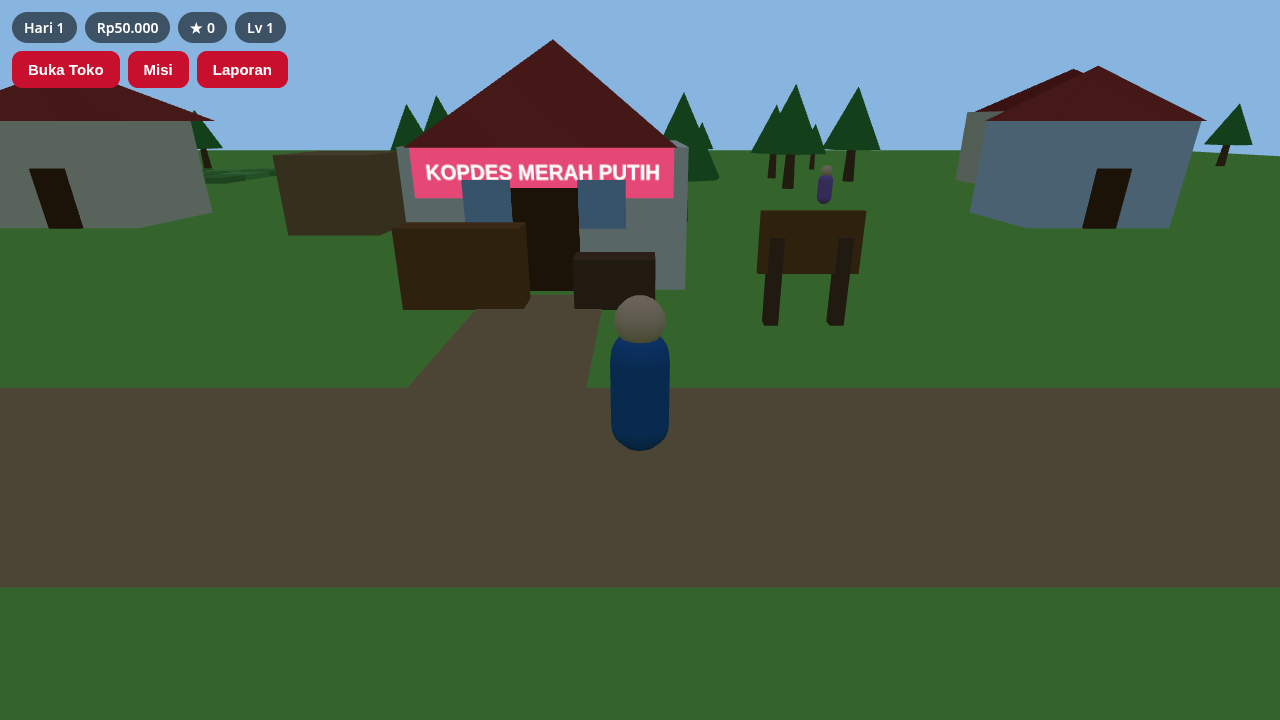
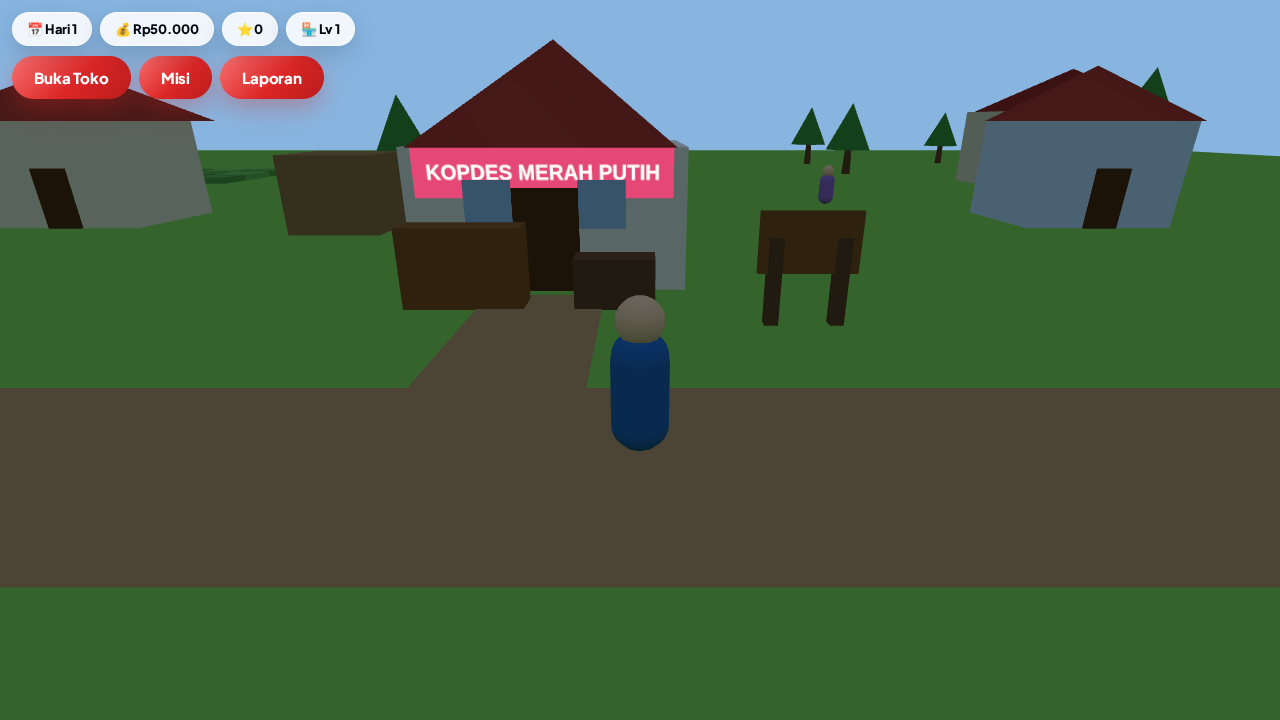
style: modernisasi UX/UI ikut token DESIGN.md (font Jakarta, kaca, pill)
- Font Plus Jakarta Sans dibundel lokal (variable woff2, tetap offline)
- HUD jadi pill kaca (blur) + tombol pill gradien merah + ikon emoji
- Dialog: kartu putih radius 26px, backdrop blur, animasi masuk
- Misi jadi kartu fitur: tile ikon, badge Selesai/Diterima, tombol Ambil pill
- Tombol Tutup jadi sekunder outline; toast & joystick dimodernisasi
- Primer merah mengikuti brand Kopdes (struktur token ikut DESIGN.md)

diff --git a/css/style.css b/css/style.css
@@ -1,55 +1,141 @@
+/* KopdesMerah — design system modern.
+ * Bahasa desain: iOS-like, extra-rounded, shadow lembut bernuansa merah
+ * (diadaptasi dari token DESIGN.md; primer merah mengikuti brand Kopdes). */
+
+@font-face {
+  font-family: 'Plus Jakarta Sans';
+  font-style: normal;
+  font-weight: 200 800;
+  font-display: swap;
+  src: url('./fonts/plus-jakarta-sans-var.woff2') format('woff2');
+}
+
+:root {
+  --font: 'Plus Jakarta Sans', system-ui, -apple-system, 'Segoe UI', sans-serif;
+  --primer: #dc2626;
+  --primer-tua: #b91c1c;
+  --primer-grad: linear-gradient(135deg, #f87171 0%, #dc2626 55%, #b91c1c 100%);
+  --ink: #030712;
+  --body: #475569;
+  --muted: #64748b;
+  --border: #f3d9d9;
+  --kaca: rgba(255, 255, 255, .88);
+  --r-pill: 999px;
+  --r-kartu: 26px;
+  --r-cta: 22px;
+  --shadow-cta: 0 10px 24px rgba(220, 38, 38, .30);
+  --shadow-kartu: 0 18px 44px rgba(220, 38, 38, .14);
+  --shadow-hud: 0 8px 24px rgba(3, 7, 18, .16);
+}
+
 * { margin: 0; padding: 0; box-sizing: border-box; }
 html, body { width: 100%; height: 100%; overflow: hidden; background: #87b5e0;
-  font-family: system-ui, -apple-system, "Segoe UI", sans-serif; }
+  font-family: var(--font); -webkit-tap-highlight-color: transparent; }
 #app, #app canvas { position: fixed; inset: 0; width: 100%; height: 100%; display: block; }
+button { font-family: var(--font); }
 
-/* HUD: bar status + tombol aksi */
-#hud { position: fixed; top: 12px; left: 12px; right: 12px; z-index: 10;
-  pointer-events: none; display: flex; flex-direction: column; gap: 8px;
-  align-items: flex-start; }
+/* HUD: bar status kaca + tombol aksi */
+#hud { position: fixed; top: max(12px, env(safe-area-inset-top)); left: 12px; right: 12px;
+  z-index: 10; pointer-events: none; display: flex; flex-direction: column;
+  gap: 10px; align-items: flex-start; }
 .hud-bar { display: flex; gap: 8px; flex-wrap: wrap; }
-.hud-bar span { background: rgba(0,0,0,.55); color: #fff; padding: 6px 12px;
-  border-radius: 999px; font-size: 14px; font-weight: 600; }
-.hud-tombol { display: flex; gap: 8px; pointer-events: auto; }
-.hud-tombol button, .panel button { background: #c8102e; color: #fff; border: 0;
-  border-radius: 10px; padding: 10px 16px; font-size: 15px; font-weight: 700;
-  cursor: pointer; }
-.hud-tombol button:active, .panel button:active { transform: scale(.96); }
+.hud-bar span { background: var(--kaca); -webkit-backdrop-filter: blur(12px);
+  backdrop-filter: blur(12px); color: var(--ink); padding: 8px 14px;
+  border-radius: var(--r-pill); font-size: 13px; font-weight: 800;
+  border: 1px solid rgba(255, 255, 255, .65); box-shadow: var(--shadow-hud);
+  letter-spacing: -.01em; white-space: nowrap; }
+.hud-tombol { display: flex; gap: 8px; pointer-events: auto; flex-wrap: wrap; }
+.hud-tombol button, .panel button {
+  background: var(--primer-grad); color: #fff; border: 0;
+  border-radius: var(--r-pill); padding: 12px 22px; font-size: 15px; font-weight: 800;
+  letter-spacing: -.01em; cursor: pointer; box-shadow: var(--shadow-cta);
+  transition: transform .12s ease, box-shadow .12s ease, filter .12s ease; }
+.hud-tombol button:hover, .panel button:hover { filter: brightness(1.06); }
+.hud-tombol button:active, .panel button:active { transform: scale(.95);
+  box-shadow: 0 4px 12px rgba(220, 38, 38, .25); }
 
-/* Kontrol sentuh HP: hanya tampil di layar sentuh */
+/* Kontrol sentuh HP */
 #sentuh { display: none; }
 @media (pointer: coarse) {
   #sentuh { display: block; position: fixed; inset: auto 0 0 0; z-index: 10;
     pointer-events: none; }
-  #joystick { position: absolute; left: 20px; bottom: 24px; width: 120px; height: 120px;
-    border-radius: 50%; background: rgba(0,0,0,.25); pointer-events: auto;
+  #joystick { position: absolute; left: 20px; bottom: calc(24px + env(safe-area-inset-bottom));
+    width: 128px; height: 128px; border-radius: 50%;
+    background: rgba(255, 255, 255, .22); -webkit-backdrop-filter: blur(8px);
+    backdrop-filter: blur(8px); border: 1.5px solid rgba(255, 255, 255, .45);
+    box-shadow: var(--shadow-hud); pointer-events: auto;
     display: flex; align-items: center; justify-content: center; }
-  #stick { width: 52px; height: 52px; border-radius: 50%;
-    background: rgba(255,255,255,.75); }
-  #btn-aksi { position: absolute; right: 24px; bottom: 44px; width: 84px; height: 84px;
-    border-radius: 50%; border: 0; background: #c8102e; color: #fff;
-    font-size: 16px; font-weight: 800; pointer-events: auto; }
+  #stick { width: 56px; height: 56px; border-radius: 50%;
+    background: rgba(255, 255, 255, .92); box-shadow: 0 6px 16px rgba(3, 7, 18, .25); }
+  #btn-aksi { position: absolute; right: 24px;
+    bottom: calc(44px + env(safe-area-inset-bottom));
+    width: 88px; height: 88px; border-radius: 50%; border: 0;
+    background: var(--primer-grad); color: #fff; font-size: 16px; font-weight: 800;
+    letter-spacing: .02em; pointer-events: auto; cursor: pointer;
+    box-shadow: var(--shadow-cta); transition: transform .12s ease; }
+  #btn-aksi:active { transform: scale(.9); }
 }
 
 /* Overlay: dialog misi & laporan harian */
-#overlay { position: fixed; inset: 0; z-index: 20; background: rgba(0,0,0,.5);
+#overlay { position: fixed; inset: 0; z-index: 20; background: rgba(3, 7, 18, .45);
+  -webkit-backdrop-filter: blur(6px); backdrop-filter: blur(6px);
   display: flex; align-items: center; justify-content: center; padding: 16px; }
 #overlay[hidden] { display: none; }
-.panel { background: #fffdf5; border-radius: 14px; padding: 20px; width: 100%;
-  max-width: 420px; max-height: 80vh; overflow-y: auto; }
-.panel h2 { margin-bottom: 12px; font-size: 20px; }
-.panel .misi { display: flex; justify-content: space-between; align-items: center;
-  gap: 10px; padding: 10px 0; border-bottom: 1px solid #e5dcc3; }
-.panel .misi em { color: #2e7d32; font-style: normal; font-weight: 700; }
-.panel dl > div { display: flex; justify-content: space-between; padding: 6px 0;
-  border-bottom: 1px solid #eee; }
-.panel dl dt { color: #555; }
-.panel dl dd { font-weight: 700; }
-.panel > button { margin-top: 14px; width: 100%; }
+.panel { background: #fff; border-radius: var(--r-kartu); padding: 24px; width: 100%;
+  max-width: 440px; max-height: 82vh; overflow-y: auto;
+  border: 1px solid var(--border); box-shadow: var(--shadow-kartu);
+  animation: panel-masuk .22s ease; }
+@keyframes panel-masuk {
+  from { opacity: 0; transform: translateY(14px) scale(.97); }
+  to { opacity: 1; transform: translateY(0) scale(1); } }
+.panel h2 { margin-bottom: 16px; font-size: 20px; font-weight: 800; color: var(--ink);
+  letter-spacing: -.02em; }
+
+/* Kartu misi: tile ikon + teks + aksi */
+.panel .misi { display: flex; align-items: center; gap: 12px; padding: 12px;
+  border: 1px solid #f1e3e3; border-radius: 18px; margin-bottom: 10px;
+  background: #fff; transition: transform .12s ease, box-shadow .12s ease; }
+.panel .misi:hover { transform: translateY(-2px);
+  box-shadow: 0 10px 22px rgba(220, 38, 38, .10); }
+.misi-ikon { flex: 0 0 48px; width: 48px; height: 48px; border-radius: 14px;
+  background: #fee2e2; display: flex; align-items: center; justify-content: center;
+  font-size: 24px; }
+.misi-teks { flex: 1; min-width: 0; }
+.misi-teks strong { display: block; font-size: 15px; font-weight: 800; color: var(--ink);
+  letter-spacing: -.01em; }
+.misi-teks small { font-size: 13px; color: var(--body); font-weight: 600; }
+.panel .misi [data-ambil] { padding: 10px 18px; font-size: 14px; flex-shrink: 0; }
+.lencana { font-size: 12px; font-weight: 800; padding: 8px 14px; border-radius: var(--r-pill);
+  white-space: nowrap; }
+.lencana-hijau { background: #ecfdf5; color: #047857; border: 1px solid #a7f3d0; }
+.lencana-kuning { background: #fef3c7; color: #b45309; border: 1px solid #fde68a; }
+
+/* Laporan harian */
+.panel dl > div { display: flex; justify-content: space-between; align-items: center;
+  padding: 10px 2px; border-bottom: 1px solid #f3e4e4; }
+.panel dl > div:last-child { border-bottom: 0; }
+.panel dl dt { color: var(--body); font-size: 14px; font-weight: 600; }
+.panel dl dd { font-weight: 800; color: var(--ink); font-size: 15px; }
+
+/* Tombol Tutup: sekunder outline */
+.panel > button[data-tutup] { margin-top: 16px; width: 100%;
+  background: rgba(255, 255, 255, .9); color: var(--primer-tua);
+  border: 1.5px solid var(--border); box-shadow: none; border-radius: 16px; }
+.panel > button[data-tutup]:active { transform: scale(.97); }
 
 /* Notifikasi toast */
-#notif { position: fixed; left: 50%; bottom: 110px; transform: translateX(-50%) translateY(20px);
-  background: rgba(0,0,0,.8); color: #fff; padding: 10px 18px; border-radius: 999px;
-  font-size: 14px; font-weight: 600; z-index: 30; opacity: 0; pointer-events: none;
-  transition: opacity .25s, transform .25s; max-width: 90vw; text-align: center; }
+#notif { position: fixed; left: 50%; bottom: 110px;
+  transform: translateX(-50%) translateY(20px);
+  background: rgba(3, 7, 18, .85); -webkit-backdrop-filter: blur(8px);
+  backdrop-filter: blur(8px); color: #fff; padding: 12px 22px;
+  border-radius: var(--r-pill); font-size: 14px; font-weight: 700; z-index: 30;
+  opacity: 0; pointer-events: none; transition: opacity .25s, transform .25s;
+  max-width: 90vw; text-align: center; box-shadow: var(--shadow-hud);
+  border: 1px solid rgba(255, 255, 255, .12); }
 #notif.tampil { opacity: 1; transform: translateX(-50%) translateY(0); }
+
+@media (max-width: 480px) {
+  .hud-bar span { font-size: 12px; padding: 7px 12px; }
+  .hud-tombol button { padding: 11px 18px; font-size: 14px; }
+  .panel { padding: 20px; border-radius: 22px; }
+}

diff --git a/js/ui/hud.js b/js/ui/hud.js
@@ -46,10 +46,10 @@ export function mountHUD(hudEl, getState, aksi = {}) {
 
   function render() {
     const m = hudModel(getState());
-    elHari.textContent = `Hari ${m.hari}`;
-    elUang.textContent = m.uang;
-    elRep.textContent = `★ ${m.reputasi}`;
-    elLevel.textContent = `Lv ${m.level}`;
+    elHari.textContent = `📅 Hari ${m.hari}`;
+    elUang.textContent = `💰 ${m.uang}`;
+    elRep.textContent = `⭐ ${m.reputasi}`;
+    elLevel.textContent = `🏪 Lv ${m.level}`;
     btnToko.textContent = m.fase === 'buka' ? 'Tutup Toko' : 'Buka Toko';
   }
 
@@ -114,18 +114,30 @@ export function mountSentuh(sentuhEl, input, onAksi) {
   });
 }
 
+// Ikon tile per misi dari kata kunci judul (murni, bisa diuji).
+export function ikonMisi(judul = '') {
+  const j = judul.toLowerCase();
+  if (j.includes('beras') || j.includes('panen') || j.includes('singkong')) return '🌾';
+  if (j.includes('iuran') || j.includes('rumah')) return '🏠';
+  if (j.includes('stok') || j.includes('rak') || j.includes('gula')) return '📦';
+  if (j.includes('kopi') || j.includes('balai')) return '☕';
+  return '🎯';
+}
+
 // Dialog daftar misi (overlay). onAccept(id) dipanggil saat tombol Ambil diklik.
 export function tampilDialogMisi(overlayEl, daftar, onAccept) {
   const kartu = daftar.map((m) => {
-    const status = m.selesai ? '<em>Selesai</em>'
-      : m.diterima ? '<em>Diterima</em>'
+    const status = m.selesai ? '<span class="lencana lencana-hijau">Selesai</span>'
+      : m.diterima ? '<span class="lencana lencana-kuning">Diterima</span>'
       : `<button type="button" data-ambil="${m.id}">Ambil</button>`;
     const syarat = m.butuh
       ? `Butuh: ${Object.entries(m.butuh).map(([b, n]) => `${n} ${b}`).join(', ')}`
       : `Aksi: ${m.aksi} ${m.target}x`;
-    return `<div class="misi"><div><strong>${m.judul}</strong><br><small>${syarat} · Upah ${formatRupiah(m.upah)}</small></div>${status}</div>`;
+    return `<div class="misi"><div class="misi-ikon">${ikonMisi(m.judul)}</div>`
+      + `<div class="misi-teks"><strong>${m.judul}</strong>`
+      + `<small>${syarat} · Upah ${formatRupiah(m.upah)}</small></div>${status}</div>`;
   }).join('');
-  overlayEl.innerHTML = `<div class="panel"><h2>Papan Misi</h2>${kartu}<button type="button" data-tutup>Tutup</button></div>`;
+  overlayEl.innerHTML = `<div class="panel"><h2>📋 Papan Misi</h2>${kartu}<button type="button" data-tutup>Tutup</button></div>`;
   overlayEl.hidden = false;
   overlayEl.querySelectorAll('[data-ambil]').forEach((b) =>
     b.addEventListener('click', () => { onAccept?.(b.dataset.ambil); }));
@@ -134,7 +146,7 @@ export function tampilDialogMisi(overlayEl, daftar, onAccept) {
 
 // Panel laporan harian (overlay). onTutup dipanggil setelah tombol ditekan.
 export function tampilLaporan(overlayEl, laporan, onTutup) {
-  overlayEl.innerHTML = `<div class="panel"><h2>Laporan Hari ${laporan.hari}</h2>
+  overlayEl.innerHTML = `<div class="panel"><h2>🧾 Laporan Hari ${laporan.hari}</h2>
     <dl>
       <div><dt>Omzet</dt><dd>${formatRupiah(laporan.omzet)}</dd></div>
       <div><dt>Laba</dt><dd>${formatRupiah(laporan.laba)}</dd></div>

diff --git a/README.md b/README.md
@@ -8,9 +8,9 @@ Repo: https://github.com/rusmanadodi2598/KopdesMerah
 
 ## Tampilan
 
-| Desa & HUD | Papan Misi | Toko Buka |
-|---|---|---|
-| ![Desa](docs/screenshots/desa.png) | ![Papan Misi](docs/screenshots/papan-misi.png) | ![Toko Buka](docs/screenshots/toko-buka.png) |
+| Desa & HUD | Papan Misi | Toko Buka | Mobile |
+|---|---|---|---|
+| ![Desa](docs/screenshots/desa.png) | ![Papan Misi](docs/screenshots/papan-misi.png) | ![Toko Buka](docs/screenshots/toko-buka.png) | ![Mobile](docs/screenshots/mobile.png) |
 
 ## Fitur
 
